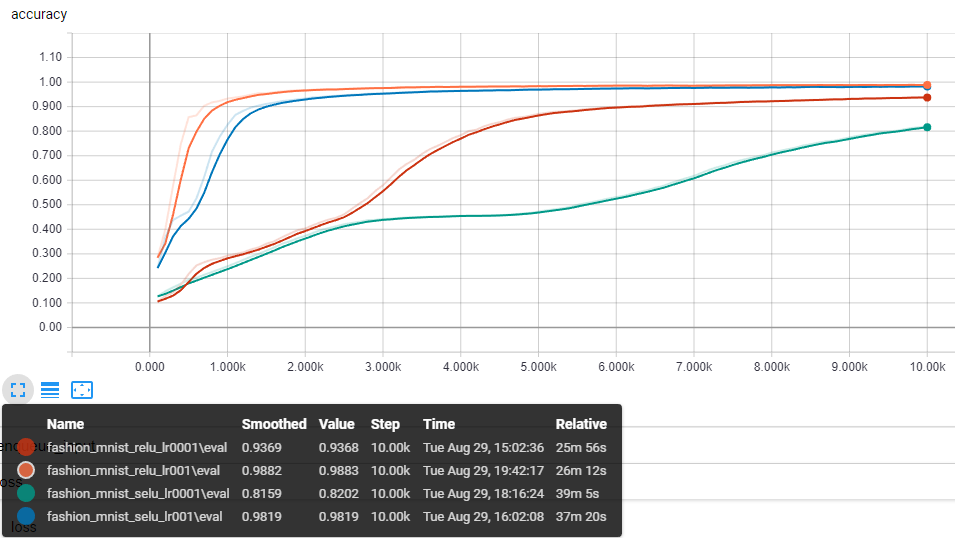
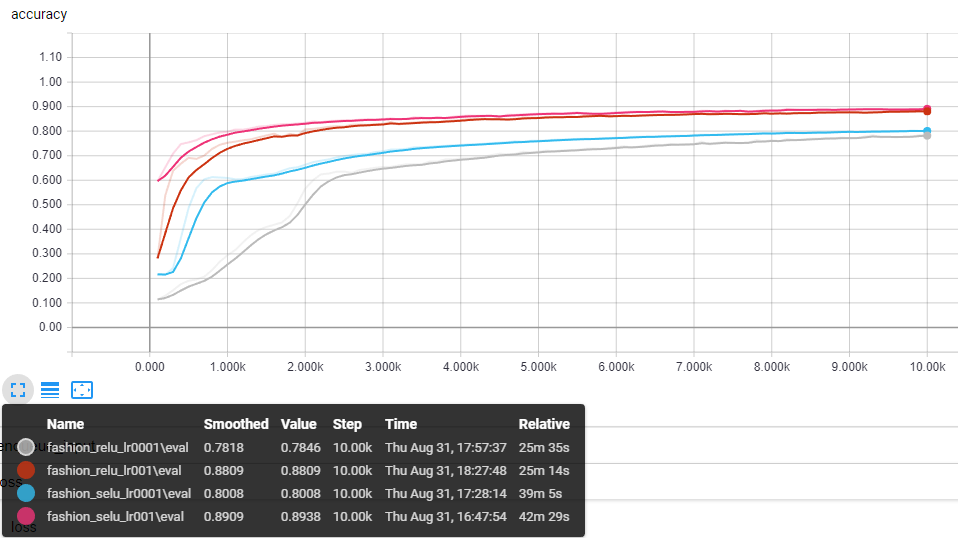
update results

diff --git a/convnet.py b/convnet.py
@@ -7,34 +7,34 @@ tf.logging.set_verbosity(tf.logging.INFO)
 
 from tensorflow.examples.tutorials.mnist import input_data
 
-DATA_DIR = './data/mnist'
+DATA_DIR = './data/fashion'
 
 def cnn_model_fn(features, labels, mode):
     """Model function for CNN."""
     input_layer = tf.reshape(features["x"], [-1, 28, 28, 1])
     conv1 = tf.layers.conv2d(
-        inputs=input_layer, filters=32, kernel_size=[3, 3],
-        padding="same", activation=selu)
+        inputs=input_layer, filters=64, kernel_size=[5, 5],
+        padding="same", activation=tf.nn.relu)
     conv2 = tf.layers.conv2d(
-        inputs=conv1, filters=32, kernel_size=[3, 3],
-        padding="same", activation=selu)
+        inputs=conv1, filters=64, kernel_size=[5, 5],
+        padding="same", activation=tf.nn.relu)
     pool1 = tf.layers.max_pooling2d(
         inputs=conv2, pool_size=[2, 2], strides=2)
     conv3 = tf.layers.conv2d(
-        inputs=pool1, filters=64, kernel_size=[3, 3],
-        padding="same", activation=selu)
+        inputs=pool1, filters=64, kernel_size=[5, 5],
+        padding="same", activation=tf.nn.relu)
     conv4 = tf.layers.conv2d(
-        inputs=conv3, filters=64, kernel_size=[3, 3],
-        padding="same", activation=selu)
+        inputs=conv3, filters=64, kernel_size=[5, 5],
+        padding="same", activation=tf.nn.relu)
     pool2 = tf.layers.max_pooling2d(
         inputs=conv4, pool_size=[2, 2], strides=2)
     pool2_flat = tf.reshape(pool2, [-1, 7 * 7 * 64])
-    dense1 = tf.layers.dense(inputs=pool2_flat, units=64, activation=selu)
-    dropout1 = dropout_selu(
-        x=dense1, rate=0.4, training=mode == tf.estimator.ModeKeys.TRAIN)
-    dense2 = tf.layers.dense(inputs=dropout1, units=64, activation=selu)
-    dropout2 = dropout_selu(
-        x=dense2, rate=0.4, training=mode == tf.estimator.ModeKeys.TRAIN)
+    dense1 = tf.layers.dense(inputs=pool2_flat, units=128, activation=tf.nn.relu)
+    dropout1 = tf.layers.dropout(
+        inputs=dense1, rate=0.4, training=mode == tf.estimator.ModeKeys.TRAIN)
+    dense2 = tf.layers.dense(inputs=dropout1, units=128, activation=tf.nn.relu)
+    dropout2 = tf.layers.dropout(
+        inputs=dense2, rate=0.4, training=mode == tf.estimator.ModeKeys.TRAIN)
     logits = tf.layers.dense(inputs=dropout2, units=10)
 
     predictions = {
@@ -80,7 +80,7 @@ def main(unused_argv):
 
     # Create the Estimator
     mnist_classifier = tf.estimator.Estimator(
-        model_fn=cnn_model_fn, model_dir="model/mnist_selu_lr001")
+        model_fn=cnn_model_fn, model_dir="model/fashion_selu_large_lr001")
 
     # Train the model
     train_input_fn = tf.estimator.inputs.numpy_input_fn(
@@ -97,12 +97,21 @@ def main(unused_argv):
         num_epochs=1,
         shuffle=False)
 
+    predict_input_fn = tf.estimator.inputs.numpy_input_fn(
+        x={"x": eval_data},
+        y=eval_labels,
+        num_epochs=1,
+        shuffle=False)
+
     for j in range(100):
         mnist_classifier.train(
             input_fn=train_input_fn,
             steps=100)
         eval_results = mnist_classifier.evaluate(input_fn=eval_input_fn)
         print(eval_results)
-
+        '''
+        predictions = list(mnist_classifier.predict(input_fn=eval_input_fn))
+        print("Num of Samples :", len(predictions))
+        '''
 if __name__ == "__main__":
     tf.app.run()

diff --git a/README.md b/README.md
@@ -9,10 +9,10 @@ C(3,32)-C(3,32)-P2-C(3,64)-C(3,64)-P2-FC64-FC64-S10
 ## Results
 |Activation|Learning Rate|MNIST|Fashion MNIST|
 |---|---|---|---|
-|RELU|0.01|0.9874|0.9883|
-|RELU|0.001|0.9388|0.9368|
-|SELU|0.01|0.9871|0.9819|
-|SELU|0.001|0.9490|0.8202|
+|RELU|0.01|0.9874|0.8809|
+|RELU|0.001|0.9388|0.7818|
+|SELU|0.01|0.9871|0.8008|
+|SELU|0.001|0.9490|0.8938|
 
 
 
